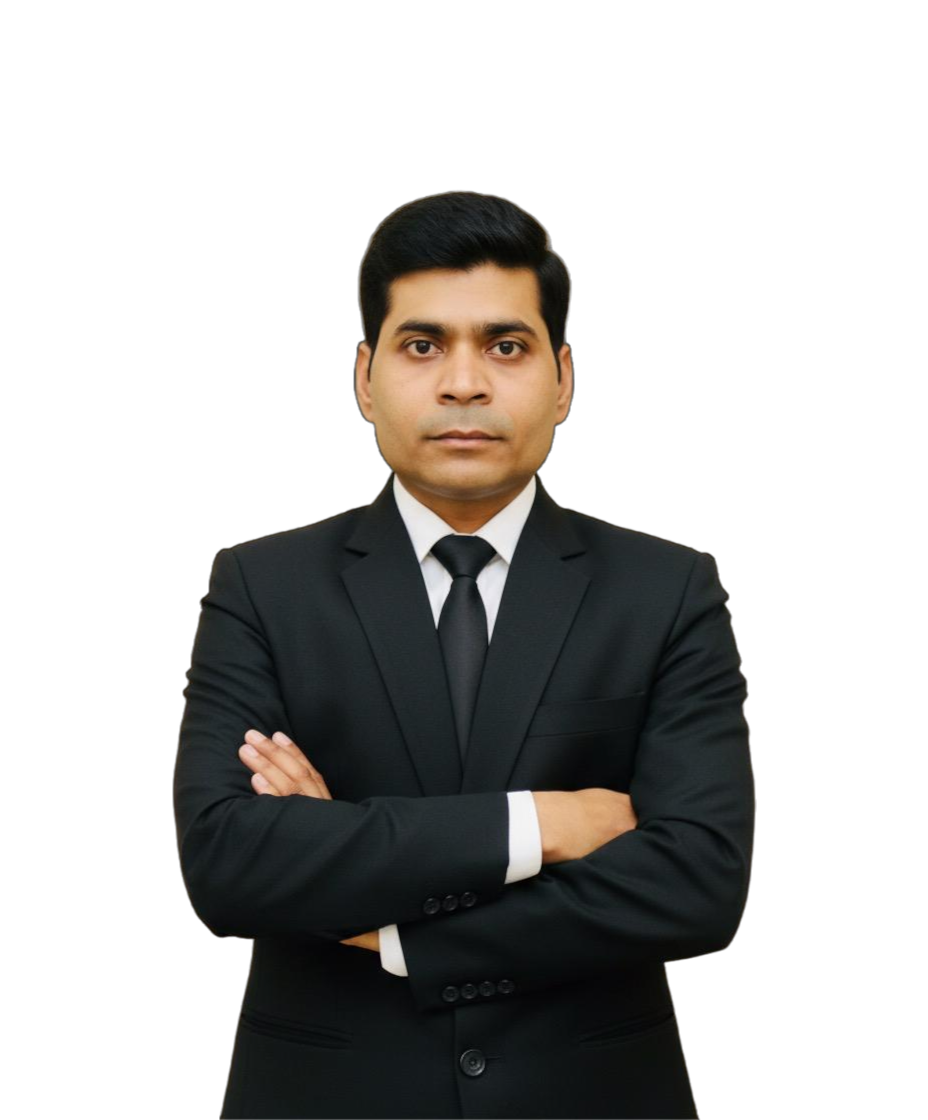
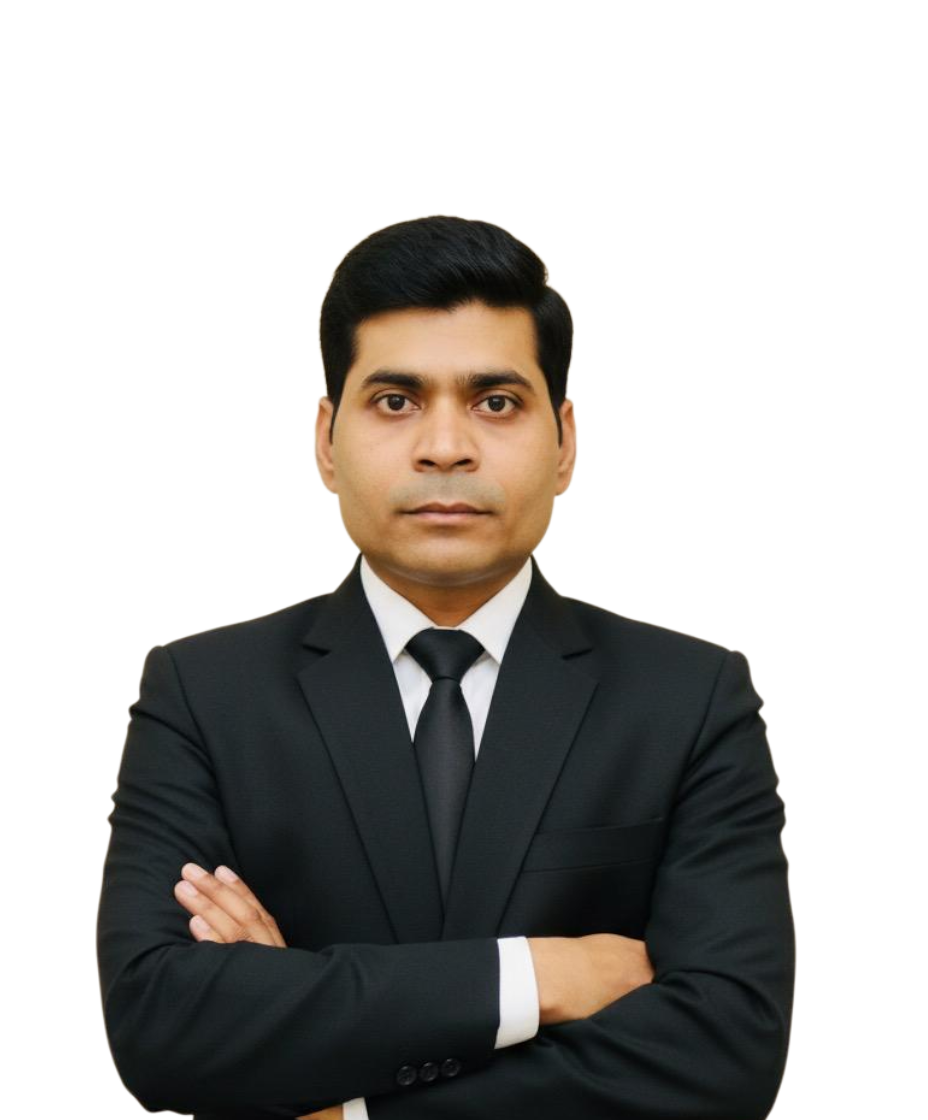
aaded all pictures

diff --git a/src/assets/teamMembers.js b/src/assets/teamMembers.js
@@ -11,7 +11,7 @@ const teamMembers = [
       "Telecom and Fertilizer Sector Advisory"
     ],
     description: "Mr. Punit Dutt Tyagi brings over three decades of exceptional legal expertise to our firm. As a Senior Partner, he specializes in complex corporate and commercial law matters, with particular strength in both international and domestic arbitration. His extensive experience in the telecom and fertilizer sectors makes him a sought-after advisor for regulatory compliance and strategic business decisions. His deep understanding of commercial disputes and arbitration procedures has helped numerous clients navigate complex legal challenges successfully.",
-    image: "/hero.png"
+    image: "profile/punit.png"
   },
   {
     id: 2,
@@ -24,7 +24,7 @@ const teamMembers = [
       "8+ years of diversified legal experience"
     ],
     description: "Mrs. Smriti Sahay is a highly qualified legal professional with a unique combination of CA, CS, and LLM credentials. She appears before the Delhi High Court, Supreme Court, and various tribunals, handling complex matters related to taxation (direct, indirect, PMLA, benami), corporate laws, and constitutional issues. Her expertise extends to NCLT/NCLAT proceedings under IBC, consumer disputes up to NCDRC, and civil recovery matters. Her multidisciplinary background enables her to provide comprehensive legal solutions with a strong foundation in financial and corporate governance.",
-    image: "/hero.png"
+    image: "profile/smriti.png"
   },
   {
     id: 3,
@@ -63,7 +63,7 @@ const teamMembers = [
       "Company Law and Banking Law Practice"
     ],
     description: "Ms. Aishwarya Singh is a versatile legal professional who graduated from KLE Society's Law College, Bengaluru. She brings expertise in corporate and civil litigation, taxation matters, arbitration, company law, and banking law. Her comprehensive understanding of corporate governance and regulatory compliance, combined with her litigation skills, makes her particularly effective in handling complex business disputes and ensuring legal compliance for corporate clients.",
-    image: "/hero.png"
+    image: "profile/ashwariya.png"
   },
   {
     id: 6,
@@ -76,7 +76,7 @@ const teamMembers = [
       "Expert in Regulatory Compliance"
     ],
     description: "Mr. Saurav Sharma combines his CS and LLB qualifications with over eight years of specialized experience in consumer grievances, commercial disputes, and indirect taxation. He regularly appears before SEBI, SAT, RERA, DRT, DRAT, and NGT, making him exceptionally well-versed in regulatory matters across multiple sectors. His expertise in navigating complex regulatory frameworks and his track record in consumer protection makes him a trusted advisor for businesses seeking compliance solutions.",
-    image: "/hero.png"
+    image: "profile/saurav.png"
   },
   {
     id: 7,
@@ -89,7 +89,7 @@ const teamMembers = [
       "Expert in Tax Litigation"
     ],
     description: "Mr. Malav Goswami brings a strong foundation in commerce and law, having completed his B.Com (Hons.) and LLB from Delhi University. He specializes in direct taxation matters, tax litigation, and departmental proceedings. His combination of commercial acumen and legal expertise enables him to provide strategic tax planning advice while effectively representing clients in complex tax disputes and assessments before various tax authorities.",
-    image: "/hero.png"
+    image: "profile/malav.png"
   },
   {
     id: 8,
@@ -101,7 +101,7 @@ const teamMembers = [
       "Intellectual Property Compliance",
       "Practice before Delhi Courts"
     ],
-    description: "Mr. Keshav Mishra is our promising junior associate who completed his LLB in 2023 and has quickly established himself in civil and criminal litigation. He specializes in intellectual property compliance matters and actively practices before the Delhi Courts. Despite being early in his career, his dedication to legal research, attention to detail, and commitment to client service demonstrate his potential for significant contributions to complex legal matters.",
+    description: "Mr. Keshav Mishra is our promising associate who completed his LLB in 2023 and has quickly established himself in civil and criminal litigation. He specializes in intellectual property compliance matters and actively practices before the Delhi Courts. Despite being early in his career, his dedication to legal research, attention to detail, and commitment to client service demonstrate his potential for significant contributions to complex legal matters.",
     image: "profile/keshav.png"
   },
   {

diff --git a/src/components/TeamMemberCard.jsx b/src/components/TeamMemberCard.jsx
@@ -11,7 +11,7 @@ const TeamMemberCard = ({ name, position, qualifications, description, image, re
                         {name}
                         {/* <div className="absolute -bottom-2 left-0 w-12 h-0.5 bg-gradient-to-r from-[#2c2c2c] to-transparent max-[760px]:mx-auto max-[760px]:left-1/2 max-[760px]:-translate-x-1/2"></div> */}
                     </h2>
-                    
+
                     {/* Position with icon */}
                     <div className="flex items-center pl-2 max-[760px]:justify-center mb-8 max-[760px]:mb-6">
                         <div className="w-2 h-2  bg-[#d6ccc2] rounded-full mr-2 max-[760px]:hidden"></div>
@@ -51,20 +51,20 @@ const TeamMemberCard = ({ name, position, qualifications, description, image, re
             <div className="flex-1 relative h-[500px] pl-4 flex justify-center items-center max-[760px]:h-auto max-[760px]:flex-none animate-fade-in-right animation-delay-300">
                 <div className="relative group">
                     {/* Decorative background circle */}
-                    <div className="absolute inset-0 bg-gradient-to-br from-[#e8f4fd]/30 to-[#c3e9ff]/30 rounded-full scale-110 blur-2xl opacity-60 group-hover:opacity-80 transition-opacity duration-500"></div>
-                    
+                    <div className="absolute inset-0 bg-gradient-to-br from-[#f5f5dc]/30 to-[#e6d7c3]/30 rounded-full scale-110 blur-2xl opacity-60 group-hover:opacity-80 transition-opacity duration-500"></div>
+
                     {/* Main image container */}
-                    <div className="w-[450px] h-[450px] rounded-full overflow-hidden shadow-2xl bg-gradient-to-br from-[#e8f4fd] to-[#c3e9ff] transition-all duration-500 hover:-translate-y-3 hover:shadow-3xl border-4 border-white/80 max-[760px]:w-[320px] max-[760px]:h-[320px] max-[760px]:border-2 group-hover:border-white relative z-10">
-                        <img 
-                            src={image} 
-                            alt={`${name} - ${position}`} 
+                    <div className="w-[450px] h-[450px] rounded-full overflow-hidden shadow-2xl bg-gradient-to-br from-[#f5f5dc] to-[#e6d7c3] transition-all duration-500 hover:-translate-y-3 hover:shadow-3xl border-4 border-[#f5f5dc]/80 max-[760px]:w-[320px] max-[760px]:h-[320px] max-[760px]:border-2 group-hover:border-[#f5f5dc] relative z-10">
+                        <img
+                            src={image}
+                            alt={`${name} - ${position}`}
                             className="w-full h-full object-cover transition-transform duration-700 group-hover:scale-110"
                         />
-                        
+
                         {/* Overlay gradient */}
                         <div className="absolute inset-0 bg-gradient-to-t from-[#2c2c2c]/10 to-transparent opacity-0 group-hover:opacity-100 transition-opacity duration-500"></div>
                     </div>
-                    
+
                     {/* Enhanced decorative elements */}
                     <div className="absolute -bottom-6 -right-6 w-20 h-20 bg-gradient-to-br from-[#2c2c2c] to-[#555] rounded-full flex items-center justify-center max-[760px]:w-16 max-[760px]:h-16 max-[760px]:-bottom-4 max-[760px]:-right-4 transition-all duration-500 group-hover:scale-110 group-hover:rotate-12 shadow-lg z-20">
                         <div className="w-10 h-10 bg-gradient-to-br from-[#f5ebe0] to-white rounded-full max-[760px]:w-8 max-[760px]:h-8 transition-all duration-300 group-hover:bg-white flex items-center justify-center">

diff --git a/src/pages/index.js b/src/pages/index.js
@@ -55,7 +55,7 @@ export default function Home() {
         {/* Fonts */}
         <link rel="preconnect" href="https://fonts.googleapis.com" />
         <link rel="preconnect" href="https://fonts.gstatic.com" crossOrigin="true" />
-        
+
         {/* Google Analytics */}
         <GoogleAnalytics ga_id="G-9XCHGTGZ6J" />
 
@@ -149,7 +149,7 @@ export default function Home() {
 
       <main>
         <Analytics />
-        
+
         {/* Global styles */}
         <Navbar />
         <Hero id="home" />
